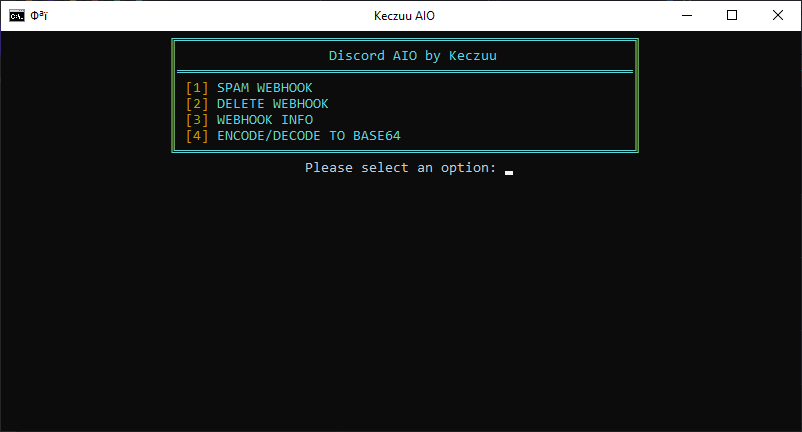
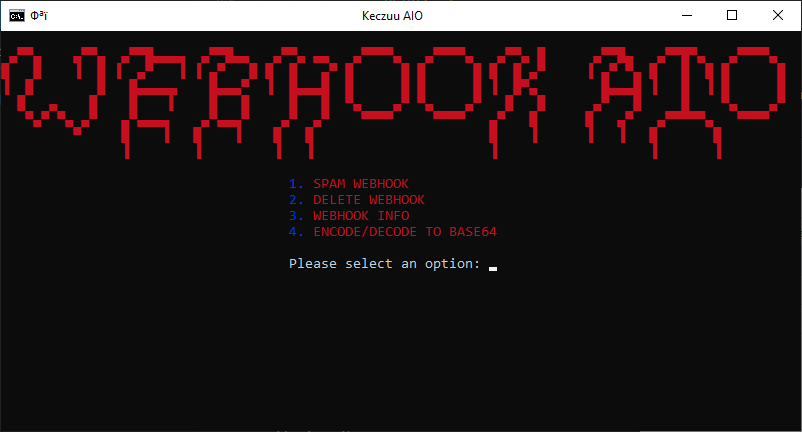
Updated preview pic, changed funky text at start

diff --git a/aio.py b/aio.py
@@ -16,9 +16,9 @@ def clear_console():
     os.system('cls' if os.name == 'nt' else 'clear')
 def redirect_to_main_menu():
     time.sleep(1)
-    print("                                      Exiting...")
+    print("                                    Exiting...")
     time.sleep(1)
-    print("                                      Going back to main menu...")
+    print("                                    Going back to main menu...")
     time.sleep(1)
     clear_console()
     webhookAIO()
@@ -95,7 +95,7 @@ def set_webhook1(settings):
 
 class webhookAIO:
     def __init__(self):
-        self.successful_message_count = 0
+        change_console_size(100, 25)
         os.system('cls' if os.name == 'nt' else 'clear')
         self.settings = load_settings(settings_file_path)
         if not self.settings.get("Loading_screen"):
@@ -113,15 +113,21 @@ class webhookAIO:
             print("Please set your webhook URL.")
             set_webhook1(self.settings)
             save_settings(self.settings, settings_file_path)
-        print(f'''{Fore.LIGHTCYAN_EX}                     ╔═════════════════════════════════════════════════════════╗
-                     ║                  Webhook AIO by Keczuu{Fore.LIGHTCYAN_EX}                  ║
-                     ║═════════════════════════════════════════════════════════║
-                     ║ {Fore.YELLOW}[1] {Fore.LIGHTCYAN_EX}SPAM WEBHOOK                                        ║
-                     ║ {Fore.YELLOW}[2] {Fore.LIGHTCYAN_EX}DELETE WEBHOOK                                      ║
-                     ║ {Fore.YELLOW}[3] {Fore.LIGHTCYAN_EX}WEBHOOK INFO                                        ║ 
-                     ║ {Fore.YELLOW}[4] {Fore.LIGHTCYAN_EX}ENCODE/DECODE TO BASE64                             ║
-                     ╚═════════════════════════════════════════════════════════╝          ''')
-        selection = input(Fore.WHITE + "                                      Please select an option: ")
+        print(f'''{Fore.RED}
+ ▄▀▀▄    ▄▀▀▄  ▄▀▀█▄▄▄▄  ▄▀▀█▄▄   ▄▀▀▄ ▄▄   ▄▀▀▀▀▄   ▄▀▀▀▀▄   ▄▀▀▄ █      ▄▀▀█▄   ▄▀▀█▀▄   ▄▀▀▀▀▄  
+█   █    ▐  █ ▐  ▄▀   ▐ ▐ ▄▀   █ █  █   ▄▀ █      █ █      █ █  █ ▄▀     ▐ ▄▀ ▀▄ █   █  █ █      █ 
+▐  █        █   █▄▄▄▄▄    █▄▄▄▀  ▐  █▄▄▄█  █      █ █      █ ▐  █▀▄        █▄▄▄█ ▐   █  ▐ █      █ 
+  █   ▄    █    █    ▌    █   █     █   █  ▀▄    ▄▀ ▀▄    ▄▀   █   █      ▄▀   █     █    ▀▄    ▄▀ 
+   ▀▄▀ ▀▄ ▄▀   ▄▀▄▄▄▄    ▄▀▄▄▄▀    ▄▀  ▄▀    ▀▀▀▀     ▀▀▀▀   ▄▀   █      █   ▄▀   ▄▀▀▀▀▀▄   ▀▀▀▀   
+         ▀     █    ▐   █    ▐    █   █                      █    ▐      ▐   ▐   █       █         
+               ▐        ▐         ▐   ▐                      ▐                   ▐       ▐         
+
+                                    {Fore.BLUE}1.{Fore.RED} SPAM WEBHOOK
+                                    {Fore.BLUE}2.{Fore.RED} DELETE WEBHOOK
+                                    {Fore.BLUE}3.{Fore.RED} WEBHOOK INFO
+                                    {Fore.BLUE}4.{Fore.RED} ENCODE/DECODE TO BASE64
+              ''')
+        selection = input(Fore.WHITE + "                                    Please select an option: ")
         if selection == "1":
             self.spam()
         elif selection == "2":
@@ -144,27 +150,27 @@ class webhookAIO:
             except Exception as e:
                 return f"Error decoding Base64: {str(e)}"
 
-        print("                                      Choose an option:")
-        print("                                      1 - Normal URL webhook")
-        print("                                      2 - Base64 encoded webhook URL")
-        choice = input("                                      Enter your choice: ")
+        print("                                    Choose an option:")
+        print("                                    1 - Normal URL webhook")
+        print("                                    2 - Base64 encoded webhook URL")
+        choice = input("                                    Enter your choice: ")
 
         if choice == "1":
-            webhook_spam = input("                                      Enter the URL of the normal webhook: ")
+            webhook_spam = input("                                    Enter the URL of the normal webhook: ")
         elif choice == "2":
-            base64_encoded_string = input("                                      Enter the Base64 encoded webhook URL: ")
+            base64_encoded_string = input("                                    Enter the Base64 encoded webhook URL: ")
             webhook_spam = decode_base64(base64_encoded_string)
         else:
-            print("                                      Invalid choice. Exiting.")
+            print("                                    Invalid choice. Exiting.")
             redirect_to_main_menu()
-        print("                                      Choose an option:")
-        print("                                      1 - Given early message")
-        print("                                      2 - Type your own message")
-        choice1 = input("                                      Enter your choice: ")
+        print("                                    Choose an option:")
+        print("                                    1 - Given early message")
+        print("                                    2 - Type your own message")
+        choice1 = input("                                    Enter your choice: ")
         if choice1 == "1":
             message = "@everyone KECZUU WAS HERE https://bigrat.monster/media/bigrat.jpg"
         if choice1 == "2":
-            message = input("                                      Please write your message below:\n")
+            message = input("                                    Please write your message below:\n")
         usernames = ["Made with love by Keczuu. <3", "Oh my god Keczuu. please stop!", "DRAIN GANG FOR LIFE", "How was your day? Be honest", "Sub to my youtube! - @KeczuuToSucz", "Follow my insta! - @KeczuuToSucz"]
         avatar = "https://cdn.discordapp.com/avatars/454341370996326420/fe9cda3cf1f9238e3bec2019fa2a7a52.png?size=1024"
         tts = False
@@ -186,24 +192,24 @@ class webhookAIO:
 
     def delete(self, webhook_del_log):
         clear_console()
-        choice = input("                                      Choose an option:\n                                      1 - Normal URL webhook\n                                      2 - Base64-encoded webhook\n                                      Enter 1 or 2: ")
+        choice = input("                                    Choose an option:\n                                    1 - Normal URL webhook\n                                    2 - Base64-encoded webhook\n                                    Enter 1 or 2: ")
 
         if choice == '1':
-            webhook_url = input("                                      Enter the URL of webhook: ")
+            webhook_url = input("                                    Enter the URL of webhook: ")
         elif choice == '2':
-            base64_webhook = input("                                      Enter the base64-encoded webhook: ")
+            base64_webhook = input("                                    Enter the base64-encoded webhook: ")
             try:
                 webhook_url = base64.b64decode(base64_webhook).decode('utf-8')
             except Exception as e:
-                print("                                      Error decoding base64 input.")
+                print("                                    Error decoding base64 input.")
                 redirect_to_main_menu()
         else:
-            print("                                      Invalid choice. Please choose 1 or 2.")
+            print("                                    Invalid choice. Please choose 1 or 2.")
             redirect_to_main_menu()
 
         response = requests.get(webhook_url)
         if response.status_code != 200:
-            print("                                      Failed to retrieve webhook data. Check the URL or your internet connection.")
+            print("                                    Failed to retrieve webhook data. Check the URL or your internet connection.")
             redirect_to_main_menu()
 
         def Add_to_file():
@@ -226,18 +232,18 @@ class webhookAIO:
         message2 = f'<@{webhook_owner_id}> webhook has been deleted!'
         log = f"{webhook_owner_id} got his webhook deleted!\n{webhook_url}"
         requests.post(webhook_del_log, json={'content': message2})
-        print("                                      Webhook log has been sent!")
+        print("                                    Webhook log has been sent!")
         Add_to_file()
-        print(f"                                      Log saved!")
+        print(f"                                    Log saved!")
         redirect_to_main_menu()
 
     def info(self, webhook_info_log):
         clear_console()
-        webhook = input("                                      Enter webhook URL: ")
+        webhook = input("                                    Enter webhook URL: ")
         try:
             response = requests.get(f"{webhook}")
             if response.status_code == 200:
-                print("                                      Webhook valid! Getting info...")
+                print("                                    Webhook valid! Getting info...")
                 data = response.json()
                 Name = str(data["name"])
                 ChannelID = str(data["channel_id"])
@@ -261,17 +267,17 @@ class webhookAIO:
                 requests.post(webhook_info_log, json={'content': message2})
                 requests.post(webhook_info_log, json={'content': message3})
 
-                print("                                      Webhook data sent successfully!")
+                print("                                    Webhook data sent successfully!")
                 Add_to_file1()
-                print("                                      Saved to Check_Webhook_log.txt!")
+                print("                                    Saved to Check_Webhook_log.txt!")
                 redirect_to_main_menu()
 
             else:
-                print("                                      Webhook does not exists anymore!")
+                print("                                    Webhook does not exists anymore!")
                 redirect_to_main_menu()
 
         except Exception as e:
-            print("                                      Error getting webhook info: {e}")
+            print("                                    Error getting webhook info: {e}")
             redirect_to_main_menu()
 
     def decode(self):
@@ -287,32 +293,32 @@ class webhookAIO:
             return decoded_string
 
         while True:
-            print("                                      1. Encode to Base64")
-            print("                                      2. Decode from Base64")
+            print("                                    1. Encode to Base64")
+            print("                                    2. Decode from Base64")
             print("")
 
-            choice = input("                                      Enter your choice (1/2): ")
+            choice = input("                                    Enter your choice (1/2): ")
 
             if choice == '1':
-                input_string = input("                                      Enter the string to encode to Base64: ")
+                input_string = input("                                    Enter the string to encode to Base64: ")
                 encoded_result = encode_to_base64(input_string)
-                print("                                      Encoded to Base64:\n","                                      ",encoded_result)
+                print("                                    Encoded to Base64:\n","                                    ",encoded_result)
                 print("")
                 pyperclip.copy(encoded_result)
-                print("                                      Copied to clipboard!")
+                print("                                    Copied to clipboard!")
                 print("")
                 redirect_to_main_menu()
             elif choice == '2':
-                encoded_string = input("                                      Enter the Base64-encoded string to decode: ")
+                encoded_string = input("                                    Enter the Base64-encoded string to decode: ")
                 decoded_result = decode_from_base64(encoded_string)
-                print("                                      Decoded from Base64:", decoded_result)
+                print("                                    Decoded from Base64:", decoded_result)
                 print("")
                 pyperclip.copy(decoded_result)
-                print("                                      Copied to clipboard!")
+                print("                                    Copied to clipboard!")
                 print("")
                 redirect_to_main_menu()
             else:
-                print("                                      Invalid choice. Going back to the menu.")
+                print("                                    Invalid choice. Going back to the menu.")
                 redirect_to_main_menu()
 
 if __name__ == "__main__":
